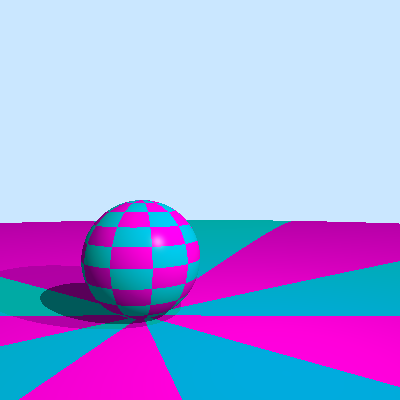
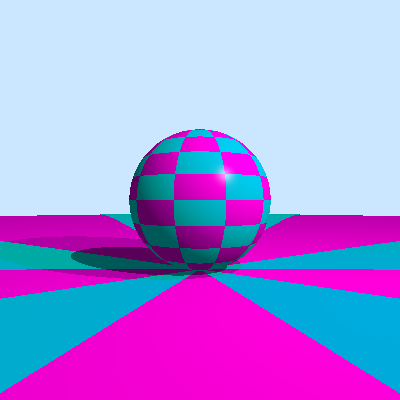
Bunte kleine Schneemannarmee mit Hüte

diff --git a/src/cgg/A06.java b/src/cgg/A06.java
@@ -1,0 +1,95 @@
+package cgg;
+
+import java.util.List;
+import tools.*;
+import static tools.Functions.*;
+
+
+public class A06 {
+    public static void main(String[] args) {
+        int w = 400, h = 400;
+
+        //  Kamera
+        SimpleCamera cam = new SimpleCamera(70, w, h);
+        cam.setTransform(
+            Mat4.translation(0, 3, 10)
+                .mul(Mat4.rotateX(-0.4))
+        );
+
+        // 💡 Lichtquellen 
+        List<Light> lights = List.of(
+            new DirectionalLight(new Vec3(-1, -1, -1), new Color(0.4, 0.4, 0.4)), // weniger intensiv
+            new PointLight(new Vec3(4, 5, 5), new Color(0.7, 0.7, 0.7)) // sanfter
+        );
+
+        // Farbpalette
+        var softPink   = new SimpleMaterial(new Color(1.0, 0.75, 0.8));
+        var mint       = new SimpleMaterial(new Color(0.7, 1.0, 0.8));
+        var softBlue   = new SimpleMaterial(new Color(0.6, 0.8, 1.0));
+        var peach      = new SimpleMaterial(new Color(1.0, 0.85, 0.65));
+        var lavender   = new SimpleMaterial(new Color(0.85, 0.7, 1.0));
+
+        List<SimpleMaterial> colors = List.of(softPink, mint, softBlue, peach, lavender);
+
+        // Szene
+        Group scene = new Group();
+
+        // Boden 
+        var ground = new SimpleMaterial(new Color(1.0, 1.0, 0.6));
+        scene.add(new Sphere(new Vec3(0, -1001, 0), 1000, ground));
+
+        // Hintergrund
+        var skyBlue = new SimpleMaterial(new Color(0.5, 0.7, 1));
+        scene.add(new Sphere(new Vec3(0, 500, -1000), 500, skyBlue));
+
+        // Bunte Schneemänner
+        int rows = 5;
+        int cols = 5;
+        for (int row = 0; row < rows; row++) {
+            for (int i = 0; i < cols; i++) {
+                double x = i * 1.5 - 3;
+                double z = row * 2 - 6;
+                SimpleMaterial mat = colors.get(i % colors.size());
+                scene.add(snowman(new Vec3(x, 0, z), mat));
+            }
+        }
+
+        // Bild rendern
+        Image img = new Image(w, h);
+        img.sample(new RayTracer(cam, lights, scene), 1);
+        img.writePng("a06");
+    }
+
+    public static Group snowman(Vec3 pos, SimpleMaterial mat) {
+        Group g = new Group();
+
+        Vec3 bottom = add(pos, new Vec3(0, 0.5, 0));
+        Vec3 top = add(pos, new Vec3(0, 1.2, 0));
+
+        // Körper
+        g.add(new Sphere(bottom, 0.5, mat));
+        g.add(new Sphere(top, 0.3, mat));
+
+        // Details
+        var blackMat = new SimpleMaterial(new Color(0.1, 0.1, 0.1));
+        var hatMat = new SimpleMaterial(new Color(0.1, 0.1, 0.1));
+
+        // Augen
+        Vec3 eyeOffset = new Vec3(0.08, 0.05, -0.28);
+        g.add(new Sphere(add(top, eyeOffset), 0.03, blackMat));
+        g.add(new Sphere(add(top, new Vec3(-eyeOffset.x(), eyeOffset.y(), eyeOffset.z())), 0.03, blackMat));
+
+        // Knöpfe
+        g.add(new Sphere(add(bottom, new Vec3(0, 0.15, -0.48)), 0.03, blackMat));
+        g.add(new Sphere(add(bottom, new Vec3(0, 0.00, -0.50)), 0.03, blackMat));
+        g.add(new Sphere(add(bottom, new Vec3(0, -0.15, -0.48)), 0.03, blackMat));
+
+        // Hut
+        g.add(new Sphere(add(top, new Vec3(0, 0.22, 0)), 0.12, hatMat));
+        g.add(new Sphere(add(top, new Vec3(0, 0.32, 0)), 0.08, hatMat));
+
+        return g;
+    }
+}
+
+

diff --git a/src/cgg/Mat4.java b/src/cgg/Mat4.java
@@ -1,0 +1,133 @@
+package cgg;
+
+import tools.Vec3;
+
+public class Mat4 {
+    private final double[][] m;
+
+    public Mat4() {
+        m = new double[4][4];
+        for (int i = 0; i < 4; i++) {
+            m[i][i] = 1.0;
+        }
+    }
+
+    public Mat4(double[][] m) {
+        this.m = m;
+    }
+
+    public static Mat4 identity() {
+        return new Mat4();
+    }
+
+    public static Mat4 translation(double x, double y, double z) {
+        Mat4 result = identity();
+        result.m[0][3] = x;
+        result.m[1][3] = y;
+        result.m[2][3] = z;
+        return result;
+    }
+
+    public static Mat4 rotateX(double angle) {
+    double cos = Math.cos(angle);
+    double sin = Math.sin(angle);
+    return new Mat4(new double[][] {
+        { 1, 0,    0,   0 },
+        { 0, cos, -sin, 0 },
+        { 0, sin,  cos, 0 },
+        { 0, 0,    0,   1 }
+    });
+}
+    public static Mat4 rotateY(double angle) {
+        double cos = Math.cos(angle);
+        double sin = Math.sin(angle);
+        return new Mat4(new double[][] {
+            { cos, 0, sin, 0 },
+            { 0,   1, 0,   0 },
+            { -sin,0, cos, 0 },
+            { 0,   0, 0,   1 }
+        });
+    }
+
+    public Vec3 transform(Vec3 v) {
+        return mul(v);
+    }
+
+    public Vec3 transformDirection(Vec3 v) {
+        return mulDirection(v);
+    }
+
+    public Vec3 mul(Vec3 v) {
+        double[] r = new double[4];
+        double[] vec = {v.x(), v.y(), v.z(), 1.0};
+        for (int i = 0; i < 4; i++) {
+            for (int j = 0; j < 4; j++) {
+                r[i] += m[i][j] * vec[j];
+            }
+        }
+        return new Vec3(r[0], r[1], r[2]);
+    }
+
+    public Vec3 mulDirection(Vec3 v) {
+        double[] r = new double[4];
+        double[] vec = {v.x(), v.y(), v.z(), 0.0};
+        for (int i = 0; i < 4; i++) {
+            for (int j = 0; j < 4; j++) {
+                r[i] += m[i][j] * vec[j];
+            }
+        }
+        return new Vec3(r[0], r[1], r[2]);
+    }
+
+    public Mat4 mul(Mat4 other) {
+        Mat4 result = new Mat4();
+        for (int i = 0; i < 4; i++) {
+            for (int j = 0; j < 4; j++) {
+                result.m[i][j] = 0;
+                for (int k = 0; k < 4; k++) {
+                    result.m[i][j] += this.m[i][k] * other.m[k][j];
+                }
+            }
+        }
+        return result;
+    }
+
+    public Mat4 invertRigid() {
+    // Nur gültig für Rotation + Translation!
+    Mat4 inv = new Mat4();
+
+    // Transponiere obere linke 3x3 (Rotation)
+    for (int i = 0; i < 3; i++) {
+        for (int j = 0; j < 3; j++) {
+            inv.m[i][j] = this.m[j][i];
+        }
+    }
+
+    // Berechne -R^T * T (Translation)
+    double x = -this.m[0][3];
+    double y = -this.m[1][3];
+    double z = -this.m[2][3];
+    Vec3 trans = inv.transform(new Vec3(x, y, z));
+    inv.m[0][3] = trans.x();
+    inv.m[1][3] = trans.y();
+    inv.m[2][3] = trans.z();
+
+    return inv;
+}
+
+public Mat4 transpose() {
+    double[][] t = new double[4][4];
+    for (int i = 0; i < 4; i++) {
+        for (int j = 0; j < 4; j++) {
+            t[i][j] = m[j][i];
+        }
+    }
+    return new Mat4(t);
+}
+
+
+}
+
+
+
+

diff --git a/src/cgg/Group.java b/src/cgg/Group.java
@@ -1,0 +1,64 @@
+package cgg;
+
+import tools.*;
+import static tools.Functions.*;
+import java.util.ArrayList;
+import java.util.List;
+
+public class Group implements Shape {
+    private final List<Shape> children;
+    private final Mat4 transform;
+    private final Mat4 inverse;
+
+    
+    public Group() {
+        this.children = new ArrayList<>();
+        this.transform = Mat4.identity();
+        this.inverse = transform.invertRigid();
+    }
+
+    
+    public Group(List<Shape> children, Mat4 transform) {
+        this.children = children;
+        this.transform = transform;
+        this.inverse = transform.invertRigid();
+    }
+
+   
+    public void add(Shape shape) {
+        children.add(shape);
+    }
+
+    @Override
+    public Hit intersect(Ray ray) {
+        Vec3 newOrigin = inverse.mul(ray.origin());
+        Vec3 newDirection = inverse.mulDirection(ray.direction());
+        Ray localRay = new Ray(newOrigin, newDirection, ray.tMin(), ray.tMax());
+
+        Hit closestHit = null;
+
+        for (Shape s : children) {
+            Hit hit = s.intersect(localRay);
+            if (hit != null && hit.isHit() && (closestHit == null || hit.t() < closestHit.t())) {
+                closestHit = hit;
+            }
+        }
+
+        if (closestHit == null) {
+            return null;
+        }
+
+        Vec3 worldPoint = transform.mul(closestHit.point());
+        Vec3 worldNormal = normalize(transform.invertRigid().transpose().mulDirection(closestHit.normal()));
+
+        return new Hit(
+            closestHit.t(),
+            worldPoint,
+            worldNormal,
+            closestHit.material(),
+            closestHit.uv()
+        );
+    }
+}
+
+

diff --git a/src/cgg/SimpleCamera.java b/src/cgg/SimpleCamera.java
@@ -8,12 +8,18 @@ public class SimpleCamera implements Camera {
     private final double fov;
     private final int width, height;
     private final double aspect;
+    private Mat4 transform;
 
     public SimpleCamera(double fovDeg, int width, int height) {
         this.fov = Math.toRadians(fovDeg);
         this.width = width;
         this.height = height;
         this.aspect = (double) width / height;
+        this.transform = Mat4.identity();
+    }
+
+    public void setTransform(Mat4 transform) {
+        this.transform = transform;
     }
 
     @Override
@@ -21,13 +27,13 @@ public class SimpleCamera implements Camera {
         double px = (2 * (point.x() / width) - 1) * aspect * Math.tan(fov / 2);
         double py = (1 - 2 * (point.y() / height)) * Math.tan(fov / 2);
         Vec3 dir = normalize(new Vec3(px, py, -1));
-        return new Ray(new Vec3(0, 0, 0), dir, 0.0, Double.POSITIVE_INFINITY);
+        Vec3 origin = new Vec3(0, 0, 0);
+
+        Vec3 worldOrigin = transform.transform(origin);
+        Vec3 worldDir = normalize(transform.transformDirection(dir));
+
+
+        return new Ray(worldOrigin, worldDir, 0.0, Double.POSITIVE_INFINITY);
     }
 }
-
-
-
-
-
-
 

diff --git a/src/cgg/RayTracer.java b/src/cgg/RayTracer.java
@@ -37,10 +37,7 @@ public class RayTracer implements Sampler {
 
             Ray shadowRay = new Ray(add(point, multiply(1e-4, lightDir)), lightDir, 0.0, lightDistance);
             Hit shadowHit = scene.intersect(shadowRay);
-
-            if (shadowHit != null) {
-                continue; // im Schatten
-            }
+            if (shadowHit != null) continue;
 
             double diffuseFactor = Math.max(0.0, dot(normal, lightDir));
             Vec3 reflectDir = subtract(multiply(2 * dot(normal, lightDir), normal), lightDir);
@@ -48,8 +45,6 @@ public class RayTracer implements Sampler {
 
             Color diffuse = multiply(diffuseFactor, multiply(mat.kd(hit.uv()), light.intensity()));
             Color specular = multiply(specularFactor, multiply(mat.ks(hit.uv()), light.intensity()));
-            Color ambient = mat.ka(hit.uv());
-
             result = add(result, add(diffuse, specular));
         }
 
@@ -57,6 +52,7 @@ public class RayTracer implements Sampler {
         return clamp(multiply(result, base));
     }
 }
+
 
 
 

diff --git a/src/cgg/Image.java b/src/cgg/Image.java
@@ -44,7 +44,7 @@ public class Image implements tools.Image {
         return height;
     }
 
-    // Supersampling: samplesPerPixel = wie oft ein Pixel zufällig unterteilt wird
+    // Supersampling samplesPerPixel = wie oft ein Pixel zufällig unterteilt wird
     public void sample(Sampler sampler, int samplesPerPixel) {
         for (int y = 0; y < height; y++) {
             for (int x = 0; x < width; x++) {

diff --git a/src/cgg/Ray.java b/src/cgg/Ray.java
@@ -35,7 +35,6 @@ public class Ray {
         return add(origin, multiply(t, dir));
     }
 
-    // ➕ Alias-Methode für RayTracer-Kompatibilität
     public Vec3 at(double t) {
         return pointAt(t);
     }

diff --git a/src/cgg/Hit.java b/src/cgg/Hit.java
@@ -40,7 +40,6 @@ public class Hit {
         return uv;
     }
 
-    // ➕ Ergänzt: Wird für RayTracer benötigt
     public boolean isHit() {
         return t < Double.POSITIVE_INFINITY;
     }
